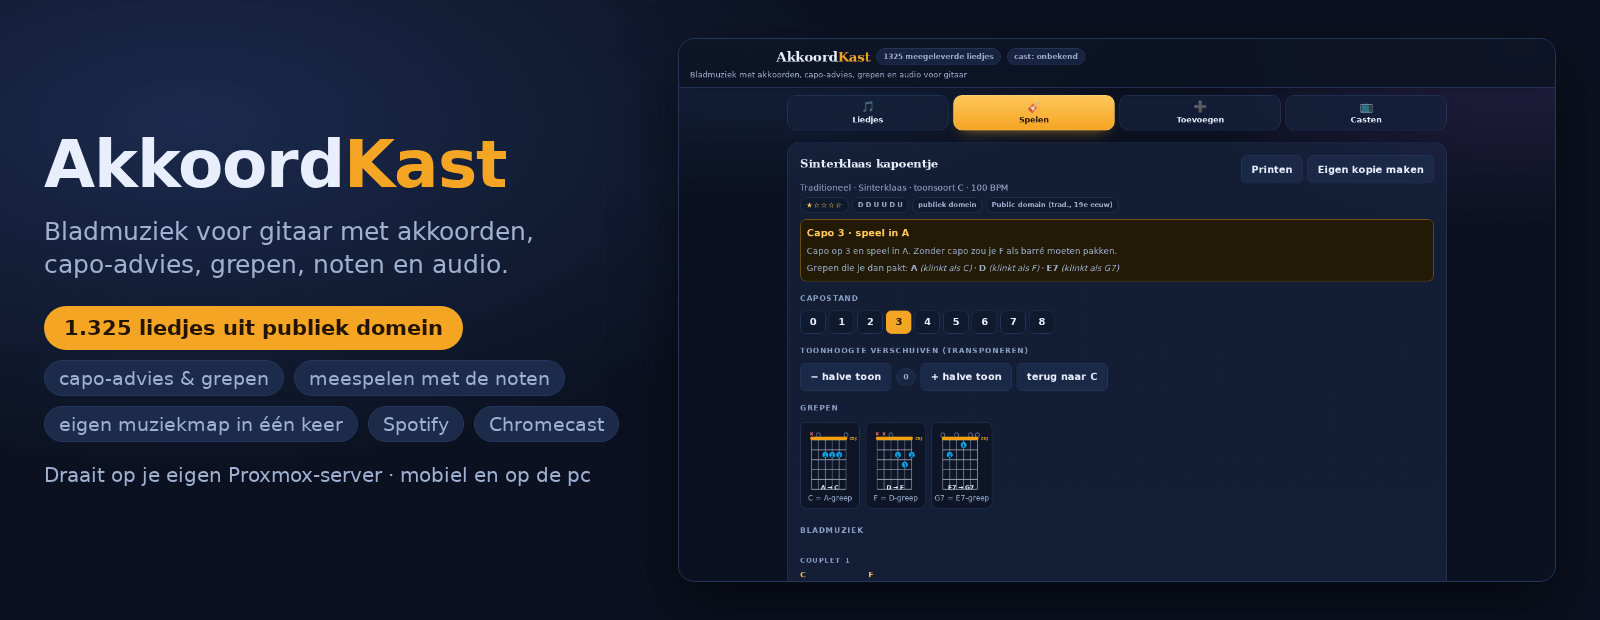
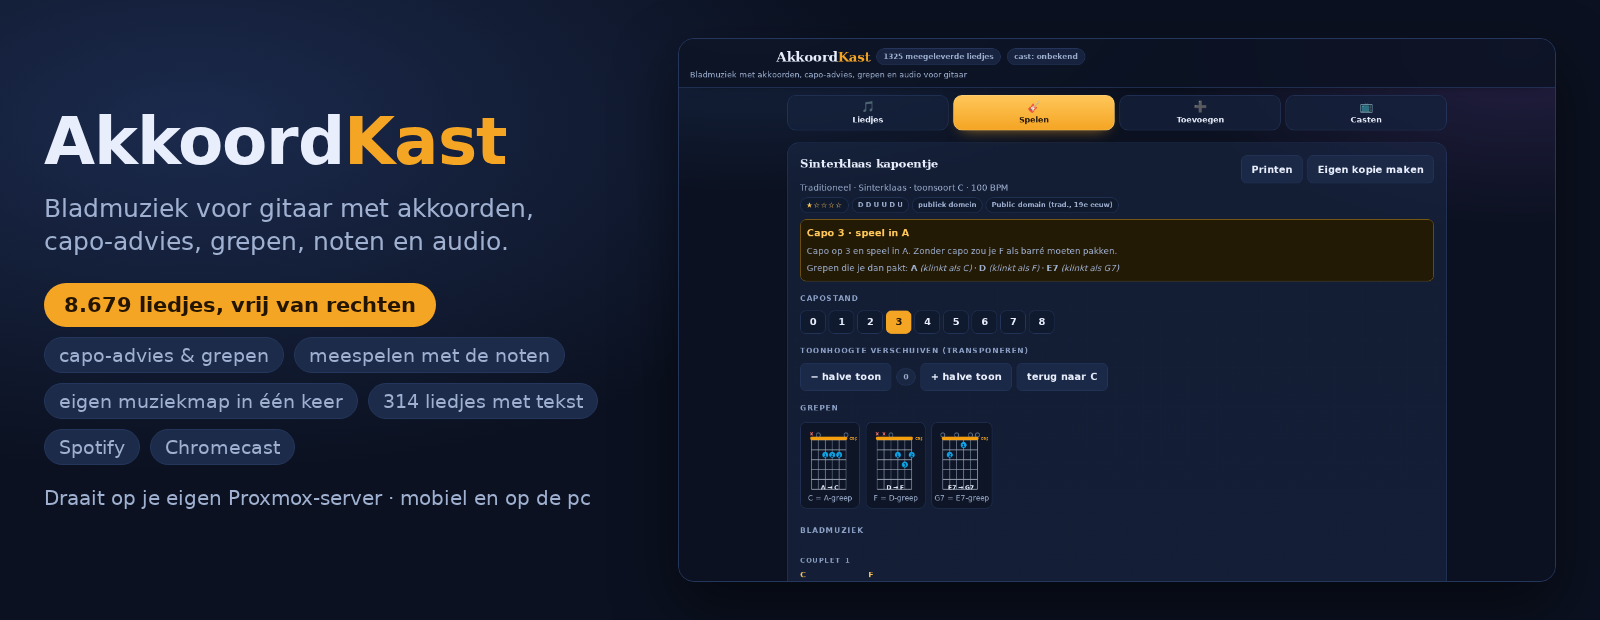
Hero en social card met het nieuwe aantal: 8.679 liedjes, vrij van rechten
- hero toont 8.679 liedjes en een pil voor de 314 liedjes met tekst
- rondleiding opnieuw gerenderd met het nieuwe aantal in beeld

Changed region(s): [[0.0, 0.1839, 0.4062, 0.8274]]

diff --git a/scripts/maak-beeld.py b/scripts/maak-beeld.py
@@ -75,10 +75,11 @@ def hero():
         <h1>Akkoord<span class="amber">Kast</span></h1>
         <p class="sub">Bladmuziek voor gitaar met akkoorden,<br>capo-advies, grepen, noten en audio.</p>
         <div class="doos">
-          <span class="sterk">1.325 liedjes uit publiek domein</span>
+          <span class="sterk">8.679 liedjes, vrij van rechten</span>
           <span class="pil">capo-advies &amp; grepen</span>
           <span class="pil">meespelen met de noten</span>
           <span class="pil">eigen muziekmap in &eacute;&eacute;n keer</span>
+          <span class="pil">314 liedjes met tekst</span>
           <span class="pil">Spotify</span>
           <span class="pil">Chromecast</span>
         </div>
